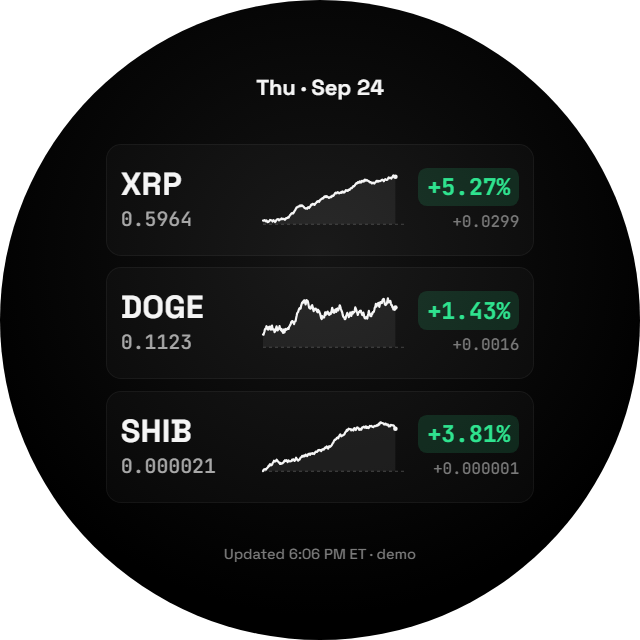
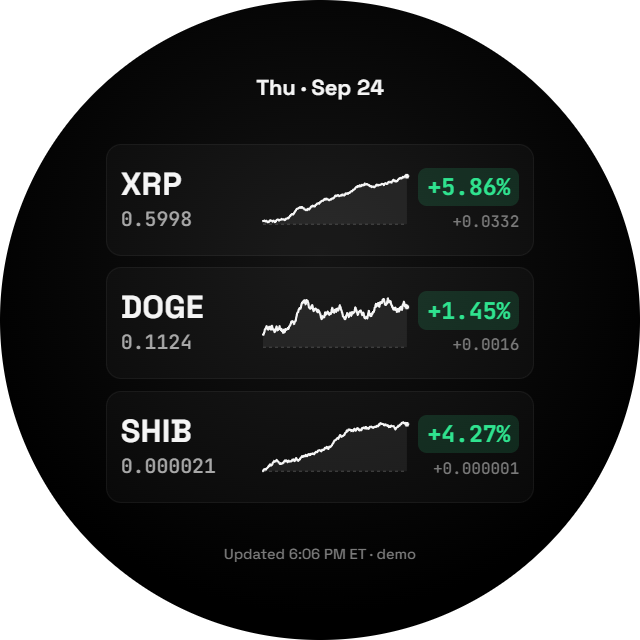
Show crypto as a rolling 24h window instead of the UTC day
Coins now plot the last 288 five-minute bars against the close 24h back,
so the line always spans the full width and never resets at midnight UTC.
Regenerate the screenshots that include a coin.

diff --git a/index.html b/index.html
@@ -226,12 +226,16 @@
     return s;
   }
 
-  // Crypto never closes, so its session is the whole UTC day the exchange stamps bars with
-  const cryptoProgress = (now = new Date()) => (now.getUTCHours() * 60 + now.getUTCMinutes()) / 1440;
-
   // ---------- data: Twelve Data ----------
   function shapeSeries(sym, values) {
     const bars = values.map(v => ({ t: v.datetime, o: +v.open, c: +v.close })).reverse();
+    if (isCrypto(sym)) {
+      // Crypto never closes, so show a rolling 24h window against the close 288 bars back
+      const win = bars.slice(-CRYPTO_BARS);
+      const ref = bars.length > CRYPTO_BARS ? bars[bars.length - CRYPTO_BARS - 1].c : win[0].o;
+      const last = win[win.length - 1].c;
+      return { sym, prevClose: ref, last, points: win.map(b => b.c), change: last - ref, pct: (last - ref) / ref * 100, barsPerDay: CRYPTO_BARS };
+    }
     const lastDate = bars[bars.length - 1].t.slice(0, 10);
     const today = bars.filter(b => b.t.startsWith(lastDate));
     const prior = bars.filter(b => b.t.slice(0, 10) < lastDate);
@@ -240,8 +244,8 @@
     return { sym, prevClose, last, points: today.map(b => b.c), change: last - prevClose, pct: (last - prevClose) / prevClose * 100, barsPerDay: barsFor(sym) };
   }
   async function fetchReal(s) {
-    // 288 bars fill a crypto day, so 200 would never reach back to the previous close
-    const outputsize = s.tickers.some(isCrypto) ? '400' : '200';
+    // A coin needs its 288-bar window plus the bar 24h back; 200 covers a stock's previous close
+    const outputsize = s.tickers.some(isCrypto) ? String(CRYPTO_BARS + 1) : '200';
     const url = 'https://api.twelvedata.com/time_series?' + new URLSearchParams({
       symbol: s.tickers.join(','), interval: '5min', outputsize, timezone: 'exchange', apikey: s.apiKey
     });
@@ -261,11 +265,10 @@
   const DEMO_COIN = { BTC: 64000, ETH: 3100, SOL: 150, BNB: 570, XRP: .55, ADA: .45, DOGE: .12, AVAX: 28, LINK: 15, LTC: 72, DOT: 6, TRX: .13, MATIC: .55, SHIB: .000022 };
   function fakeData(s, state) {
     const dayKey = Math.floor(Date.now() / 864e5);
-    const cryptoProg = cryptoProgress();
     return s.tickers.map(sym => {
       const bars = barsFor(sym);
-      const prog = isCrypto(sym) ? cryptoProg : state.progress;
-      const n = Math.max(2, prog === 0 ? bars : Math.round(prog * bars));
+      // A coin's rolling window is always full; a stock's fills as the session runs
+      const n = isCrypto(sym) ? bars : Math.max(2, state.progress === 0 ? bars : Math.round(state.progress * bars));
       const seed = [...sym].reduce((a, ch) => a * 31 + ch.charCodeAt(0), 7) + dayKey;
       const r = rng(seed);
       const prevClose = isCrypto(sym) ? (DEMO_COIN[sym.split('/')[0]] || 100) * (.9 + r() * .2) : 40 + r() * 600;

diff --git a/README.md b/README.md
@@ -11,7 +11,7 @@ Intraday stock and crypto trend for the circular LCD on an NZXT Kraken cooler. O
 ## What it does
 
 - **Up to three symbols**, stocks and crypto side by side.
-- **Intraday sparkline** per symbol against a dashed previous-close baseline, so the shape of the day reads at a glance.
+- **Intraday sparkline** per symbol against a dashed baseline — the previous close for stocks, the price 24 hours ago for coins — so the shape of the day reads at a glance.
 - **Percent badge in green or red**, neutral white when the move is under 0.005%.
 - **24/7 aware.** Coins keep refreshing overnight and on weekends; an all-stock list falls back to a 30-minute cadence once the US session closes.
 - **Demo mode** for setup and screenshots — no API key needed.
@@ -21,7 +21,7 @@ Intraday stock and crypto trend for the circular LCD on an NZXT Kraken cooler. O
 
 <table>
 <tr>
-<td width="50%"><img src="assets/mixed.png" alt="SPY, NVDA and BTC"><br><sub><b>Stocks and a coin.</b> BTC's line stops short of the right edge because its day is still running.</sub></td>
+<td width="50%"><img src="assets/mixed.png" alt="SPY, NVDA and BTC"><br><sub><b>Stocks and a coin.</b> BTC always spans the full width: its window is the last 24 hours, not today's session.</sub></td>
 <td width="50%"><img src="assets/crypto.png" alt="BTC, ETH and SOL"><br><sub><b>Coins only.</b> Nothing on screen refers to a market session.</sub></td>
 </tr>
 <tr>
@@ -91,11 +91,11 @@ Adding a coin removes the overnight discount — a 24/7 symbol is refreshed arou
 
 ## How it works
 
-Everything lives in `index.html` — 395 lines, about 260 of them vanilla JS. No framework, no bundler.
+Everything lives in `index.html` — 398 lines, about 260 of them vanilla JS. No framework, no bundler.
 
 - **Market clock.** A self-contained NYSE calendar computes holidays (including Good Friday via the Gregorian Easter algorithm) and half-days, so the app knows when the US session is actually open without calling anything.
-- **Bars.** Data is 5-minute candles. A stock day is 78 of them, a crypto day is 288; each quote carries its own count, and its sparkline is scaled to it. That's why a coin's line is shorter mid-day — it's a genuine fraction of a longer session, not a rendering artefact.
-- **Previous close.** Taken from the last bar of the prior date in the series, which is what the dashed baseline draws and what the percentage is measured against.
+- **Bars.** Data is 5-minute candles. A stock day is 78 of them and fills in as the session runs. A coin shows a rolling window of the last 288 (24 hours), so its line always spans the full width and never resets at midnight.
+- **Baseline.** For a stock, the last bar of the prior date in the series; for a coin, the close 288 bars before the latest one. That's what the dashed line draws and what the percentage is measured against.
 - **Sizing.** A `ResizeObserver` sets `--u` to 1% of the display's width; every font size, padding and radius is a multiple of it.
 
 ## Limits
